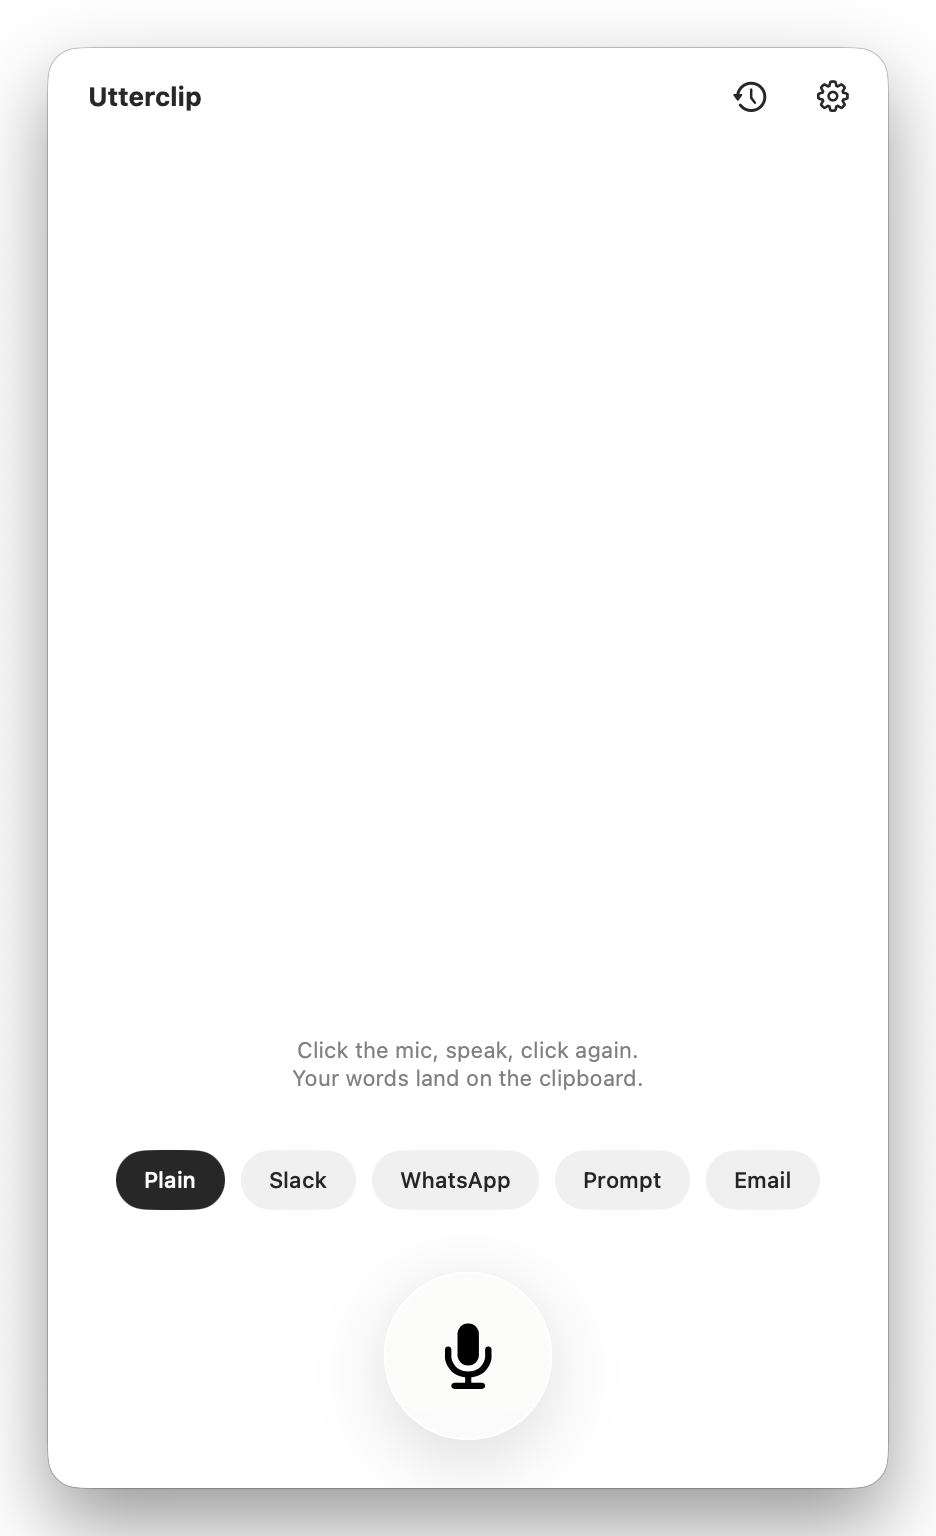
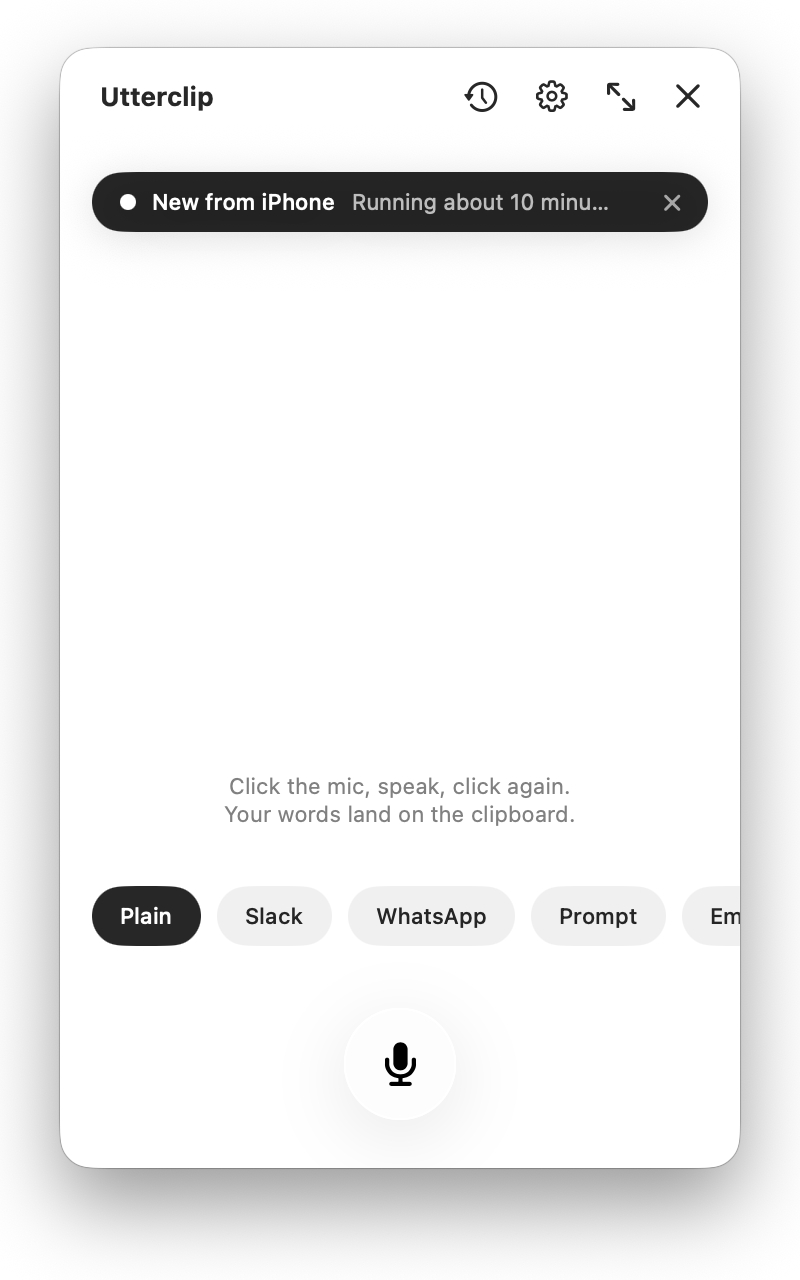
Fresh screenshots, taken on this branch
All three were from before: the iPhone at the old result type size, the Mac at
420 × 720 with a header that had two icons rather than four and a record button
half again too big. The same dictation on all three now, so the pair at the top
of the README reads as one story.

The iPhone shot is composited into the same device frame the old one used —
measured off it, corners and all — so the two sit together as they did. Both
Mac windows are padded onto one canvas so they render at the same size beside
each other; they were captured with different shadow margins.

The idle window happens to carry the phone indicator, since the iPhone had just
dictated the same sentence. Left in: it is the one 1.1 feature with no picture
anywhere, and the text is the line we chose to publish.

diff --git a/README.md b/README.md
@@ -29,11 +29,11 @@
 </p>
 
 <p align="center">
-  <img src="docs/screenshots/result.png" width="300" alt="iPhone: a dictation rewritten as a Slack message, already copied, with the raw transcript below and style pills to re-run it">
+  <img src="docs/screenshots/result.png" width="300" alt="iPhone: a spoken note about being late to standup, rewritten as a Slack message and already copied, with the raw transcript below and style pills to re-run it">
   &nbsp;&nbsp;
-  <img src="docs/screenshots/mac-result.png" width="340" alt="Mac: a dictation rewritten as a Slack message in the menu bar app's window, floating above other apps">
+  <img src="docs/screenshots/mac-result.png" width="300" alt="Mac: the same dictation rewritten as a Slack message in the menu bar app's window, floating above other apps">
 </p>
-<p align="center"><sub>Left: iPhone. Right: the Mac app, one window that floats above whatever you write in.</sub></p>
+<p align="center"><sub>The same dictation on both. Left: iPhone. Right: the Mac app, one window that floats above whatever you write in.</sub></p>
 
 ---
 
@@ -338,9 +338,9 @@ What is different, and only because the platform is:
 | — | **From the phone:** while you dictate on the iPhone, a small capsule at the top of the Mac window says so ("iPhone · Recording…"); when the result has synced it reads "New from iPhone" with the first words. Click it and the dictation lands in the Mac window, copied to the Mac clipboard — the fallback for the days Universal Clipboard doesn't feel like it |
 
 <p align="center">
-  <img src="docs/screenshots/mac-idle.png" width="360" alt="The Mac window: title, History and Settings in its own header, style pills and the mic at the bottom">
+  <img src="docs/screenshots/mac-idle.png" width="360" alt="The Mac window waiting: History, Settings, the size toggle and close in its own header, style pills and the mic at the bottom — and a capsule saying a dictation just arrived from the iPhone">
   &nbsp;
-  <img src="docs/screenshots/mac-result.png" width="360" alt="A dictation rewritten as a Slack message in the Mac window, raw transcript below, continue-dictating button beside the mic; click the card to edit">
+  <img src="docs/screenshots/mac-result.png" width="360" alt="A dictation rewritten as a Slack message in the Mac window, raw transcript below, continue-dictating button beside the mic; click the card to edit it where it sits">
 </p>
 
 Requirements: macOS 14 or later; Apple Intelligence needs macOS 26 on an Apple silicon Mac.
